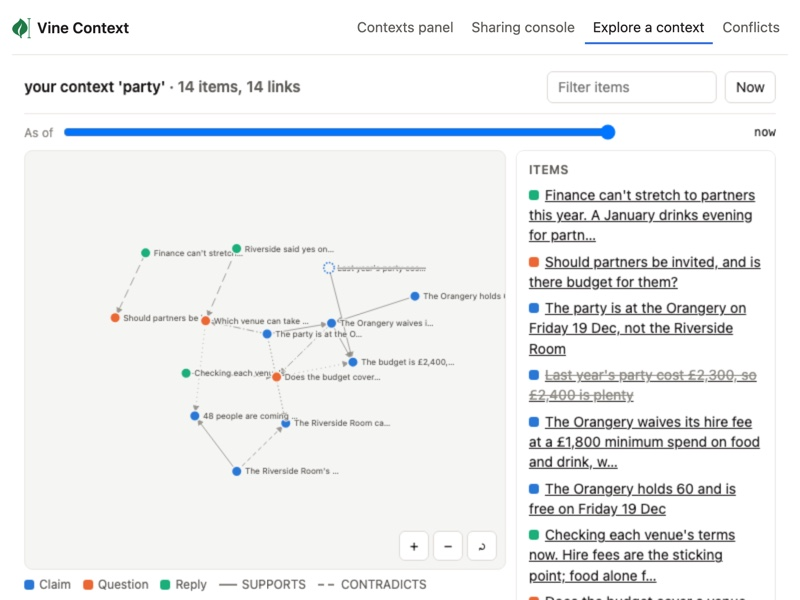
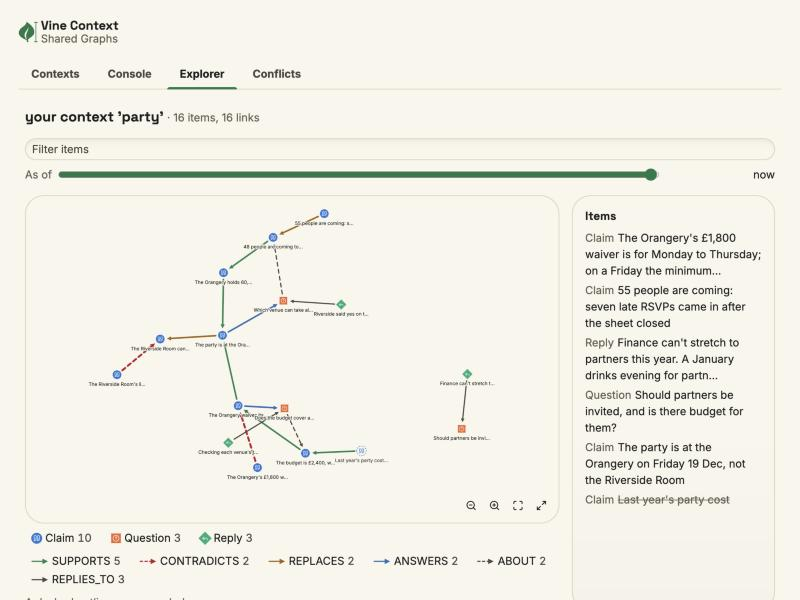
Views: the demo no longer looks broken where it isn't
- Relationship types are drawn apart in the explorer: SUPPORTS green,
  CONTRADICTS red and dashed, REPLACES amber, ANSWERS blue.
- The 'no signalling relay' warning shows only when no member is
  linked, so not during a healthy in-process demo.
- Lines people read (the panel, the demo's terminal) leave out item
  ids, which stay in what agents are told.
- The browser page reads each view's page once and says it is loading.
- The demo's members report the platform they really run on.
- The explorer screenshot is of the new example.

diff --git a/plugin/hooks/register.tsx b/plugin/hooks/register.tsx
@@ -114,6 +114,8 @@ const TABS: { tab: Tab; icon: string; label: string }[] = [
   { tab: 'settings', icon: '⚙', label: 'Settings' },
 ]
 
+/** A line as a person reads it: without the item ids that are there for agents. */
+const plain = (s: string) => s.replace(/\s*\b[cqr]_[0-9a-f]{8}(?:-[0-9a-f]{4}){3}-[0-9a-f]{12}\b/g, '').replace(/\breplied to:/, 'replied:')
 const short = (s: string, n: number) => (s.length > n ? `${s.slice(0, n - 1)}…` : s)
 /** A path cut from the front, so its last folders (the telling part) stay. */
 export const tail = (s: string, n: number) => (s.length > n ? `…${s.slice(s.length - n + 1)}` : s)
@@ -374,12 +376,12 @@ async function refresh($: Engine) {
     const others = a.recent.filter(c => !c.mine && !c.held)
     if (seen) {
       const fresh = others.filter(c => !seen!.has(c.id) && ['claim', 'question', 'reply', 'add_member', 'withdraw', 'remove_member'].includes(c.kind))
-      for (const c of fresh.slice(0, 3)) $.ui.toast(`${c.by} ${short(c.summary, 90)}`)
+      for (const c of fresh.slice(0, 3)) $.ui.toast(`${c.by} ${short(plain(c.summary), 90)}`)
     }
     seen = new Set(a.recent.map(c => c.id))
     // What others' changes meant for you (the sync digest): its first line as a toast.
     const d = a.digest?.at(-1)
-    if (d && seenDigest !== undefined && d.at !== seenDigest && d.lines[0]) $.ui.toast(`${a.context}: ${short(d.lines[0], 110)}`)
+    if (d && seenDigest !== undefined && d.at !== seenDigest && d.lines[0]) $.ui.toast(`${a.context}: ${short(plain(d.lines[0]), 110)}`)
     seenDigest = d?.at ?? ''
     const top = others.find(c => c.kind !== 'create')
     await update($, latest, (): Latest | null => (top ? { by: top.by, summary: top.summary, at: top.at } : null))
@@ -596,7 +598,7 @@ export const register: Register = on => {
     const d = a.digest?.at(-1)
     const main = a.contexts.find(c => c.writes_here)?.name ?? a.context
     // The latest news: what others' changes meant for you if that's newest, else the latest change from someone else.
-    const news = d && (!l || d.at >= l.at) ? `${short(d.lines[0] ?? '', 70)} (${ago(d.at, now)})` : l ? `${l.by} ${short(l.summary, 60)} (${ago(l.at, now)})` : ''
+    const news = d && (!l || d.at >= l.at) ? `${short(plain(d.lines[0] ?? ''), 70)} (${ago(d.at, now)})` : l ? `${l.by} ${short(plain(l.summary), 60)} (${ago(l.at, now)})` : ''
     const more = a.contexts.filter(c => c.name !== main).map(c => ` +${c.name}`).join('')
     return (
       <Box flexDirection="row" gap={1} alignItems="center" width="100%">
@@ -737,7 +739,7 @@ export const register: Register = on => {
                 <Text weight="semibold" bold>
                   {last.mine ? 'you' : last.by}
                 </Text>{' '}
-                {short(last.summary, 80)}
+                {short(plain(last.summary), 80)}
               </Text>
             </Box>
           )}
@@ -1825,8 +1827,9 @@ export const register: Register = on => {
       const feed = a.recent
       // The "you claimed:" part of an activity line is who-did-what metadata: drawn dim so the claim itself reads first.
       const lead = (c: Change) => {
-        const i = /^(claim|question|reply|describe)$/.test(c.kind) ? c.summary.indexOf(': ') : -1
-        return i < 0 ? { head: '', body: c.summary } : { head: c.summary.slice(0, i + 2), body: c.summary.slice(i + 2) }
+        const summary = plain(c.summary)
+        const i = /^(claim|question|reply|describe)$/.test(c.kind) ? summary.indexOf(': ') : -1
+        return i < 0 ? { head: '', body: summary } : { head: summary.slice(0, i + 2), body: summary.slice(i + 2) }
       }
       const ICON: Record<string, string> = { claim: '📌', question: '❓', reply: '↳', link: '🔗', withdraw: '✕', add_member: '👋', remove_member: '🚪', set_role: '🔑', rename: '✎', describe: '✎', create: '✦' }
       const need = (key: string, tone: string, text: unknown, button: unknown) => card(`need-${key}`, split(`need-row-${key}`, <Text wrap="wrap">{text}</Text>, button, 'center'), tone)
@@ -1876,7 +1879,7 @@ export const register: Register = on => {
                 {heldMine.map((c: Change) =>
                   split(
                     `held-${c.id}`,
-                    <Text wrap="wrap">{short(c.summary, 140)}</Text>,
+                    <Text wrap="wrap">{short(plain(c.summary), 140)}</Text>,
                     <Button key={`undo-change-${c.id}`} label="Undo" variant="primary" onPress={() => void act($, 'withdraw', { id: c.id, undo_only: true, ...ctx }, 'Taken back. It never left this machine.')} />,
                     'center',
                   ),
@@ -1894,7 +1897,7 @@ export const register: Register = on => {
                 <Box flexDirection="column" gap="xs">
                   {folded('digest', digest.lines, 3, 'changes', 'change', (line, i) => (
                     <Text key={`digest-${i}`} wrap="wrap">
-                      {line}
+                      {plain(line)}
                     </Text>
                   ))}
                   {meta(ago(digest.at, now))}

diff --git a/apps/src/views/Contexts.tsx b/apps/src/views/Contexts.tsx
@@ -63,6 +63,7 @@ import {
   prop,
   relations,
   sendLine,
+  plain,
   short,
   tail,
   threads,
@@ -98,8 +99,9 @@ const RECENT = 5;
 const HEADER_PEOPLE = 6;
 // The "you claimed:" part of an activity line is who-did-what metadata: drawn muted so the claim itself reads first.
 const lead = (c: Change) => {
-  const i = /^(claim|question|reply|describe)$/.test(c.kind) ? c.summary.indexOf(": ") : -1;
-  return i < 0 ? { head: "", body: c.summary } : { head: c.summary.slice(0, i + 2), body: c.summary.slice(i + 2) };
+  const summary = plain(c.summary);
+  const i = /^(claim|question|reply|describe)$/.test(c.kind) ? summary.indexOf(": ") : -1;
+  return i < 0 ? { head: "", body: summary } : { head: summary.slice(0, i + 2), body: summary.slice(i + 2) };
 };
 /** A way out of a step (Cancel, Done, Back) leads with a back chevron, so it reads as going back. */
 const backLabel = (label: string) => label.replace(/^‹\s*/, "");
@@ -1263,7 +1265,7 @@ function ContextsPanel({ b }: { b: Bridge }) {
   // The latest news from someone else: what their changes meant for you if that's newest, else their latest change.
   const digest = a.digest?.at(-1);
   const latest = a.recent.find((c) => !c.mine && !c.held && c.kind !== "create");
-  const news = digest?.lines[0] && (!latest || digest.at >= latest.at) ? `${short(digest.lines[0], 90)} (${ago(digest.at, now)})` : latest ? `${latest.by} ${short(latest.summary, 80)} (${ago(latest.at, now)})` : "";
+  const news = digest?.lines[0] && (!latest || digest.at >= latest.at) ? `${short(plain(digest.lines[0]), 90)} (${ago(digest.at, now)})` : latest ? `${latest.by} ${short(plain(latest.summary), 80)} (${ago(latest.at, now)})` : "";
 
   const header = (
     <VStack gap="sm">
@@ -1377,7 +1379,8 @@ function ContextsPanel({ b }: { b: Bridge }) {
     );
     const needs = [
       !a.sharing && need("offline", "warn", "You’re offline: what you write stays on this machine, and you don’t see what others add, until you’re back.", goOnline),
-      a.sharing && a.relays_up === 0 && need("relays", "warn", "No signalling relay is reachable, so the other members can’t find this machine right now.", null),
+      // Members already linked need no relay: it only matters for finding each other.
+      a.sharing && a.relays_up === 0 && a.online.length === 0 && a.members > 1 && need("relays", "warn", "No signalling relay is reachable, so the other members can’t find this machine right now.", null),
       rel.conflicts.length > 0 &&
         need(
           "conflicts",
@@ -1434,7 +1437,7 @@ function ContextsPanel({ b }: { b: Bridge }) {
               <Text tone="warning">Just written, still only on this machine:</Text>
               {heldMine.map((c) => (
                 <Split key={c.id}>
-                  <Text>{short(c.summary, 140)}</Text>
+                  <Text>{short(plain(c.summary), 140)}</Text>
                   <Button variant="primary" onClick={() => void act("withdraw", { id: c.id, undo_only: true, ...ctx }, "Taken back. It never left this machine.")}>
                     Undo
                   </Button>
@@ -1456,7 +1459,7 @@ function ContextsPanel({ b }: { b: Bridge }) {
             <SectionTitle>What changed for you</SectionTitle>
             <Box tone="accent">
               <VStack gap="sm">
-                <Folded list={digest.lines.map((line, i) => ({ line, i }))} first={3} what="changes" one="change" render={({ line, i }) => <Text key={i}>{line}</Text>} />
+                <Folded list={digest.lines.map((line, i) => ({ line, i }))} first={3} what="changes" one="change" render={({ line, i }) => <Text key={i}>{plain(line)}</Text>} />
                 <Meta>{ago(digest.at, now)}</Meta>
               </VStack>
             </Box>

diff --git a/apps/src/shell.tsx b/apps/src/shell.tsx
@@ -8,6 +8,8 @@ import { Client } from "@modelcontextprotocol/sdk/client/index.js";
 import { StreamableHTTPClientTransport } from "@modelcontextprotocol/sdk/client/streamableHttp.js";
 import { Alert } from "@squonk/ui/alert";
 import { Container } from "@squonk/ui/container";
+import { HStack } from "@squonk/ui/hstack";
+import { Spinner } from "@squonk/ui/spinner";
 import { Tabs } from "@squonk/ui/tabs";
 import { Textarea } from "@squonk/ui/textarea";
 import { VStack } from "@squonk/ui/vstack";
@@ -55,17 +57,29 @@ async function appTools(client: Client): Promise<AppTool[]> {
     });
 }
 
+// A view's page is over a megabyte and never changes while this page is open: read it once.
+const pages = new Map<string, Promise<string>>();
+function page(client: Client, uri: string): Promise<string> {
+  let p = pages.get(uri);
+  if (!p) {
+    p = client.readResource({ uri }).then((res) => (res.contents[0] as { text?: string }).text ?? "");
+    p.catch(() => pages.delete(uri));
+    pages.set(uri, p);
+  }
+  return p;
+}
+
 function View({ client, tool: { name, args, title, uri }, onMessage }: { client: Client; tool: AppTool; onMessage: (text: string) => void }) {
   const frame = useRef<HTMLIFrameElement>(null);
   const [height, setHeight] = useState(480);
   const [error, setError] = useState<string>();
+  const [ready, setReady] = useState(false);
 
   useEffect(() => {
     let bridge: AppBridge | undefined;
     let cancelled = false;
     (async () => {
-      const res = await client.readResource({ uri: uri });
-      const html = (res.contents[0] as { text?: string }).text ?? "";
+      const html = await page(client, uri);
       const iframe = frame.current!;
       const theme = matchMedia("(prefers-color-scheme: dark)").matches ? "dark" : "light";
       bridge = new AppBridge(
@@ -87,7 +101,9 @@ function View({ client, tool: { name, args, title, uri }, onMessage }: { client:
       bridge.oninitialized = async () => {
         await bridge!.sendToolInput({ arguments: args });
         const result = await client.callTool({ name: name, arguments: args });
-        if (!cancelled) await bridge!.sendToolResult(result as never);
+        if (cancelled) return;
+        await bridge!.sendToolResult(result as never);
+        setReady(true);
       };
       // Listen before the view loads, so its first message (ui/initialize) can't be missed.
       await bridge.connect(new PostMessageTransport(iframe.contentWindow!, iframe.contentWindow!));
@@ -103,6 +119,12 @@ function View({ client, tool: { name, args, title, uri }, onMessage }: { client:
   return (
     <>
       {error && <Alert tone="error">{error}</Alert>}
+      {!ready && !error && (
+        <HStack gap="xs" align="center" role="status">
+          <Spinner />
+          <span>Loading…</span>
+        </HStack>
+      )}
       <iframe ref={frame} title={title} sandbox="allow-scripts" style={{ width: "100%", height, border: 0, display: "block" }} />
     </>
   );
@@ -151,6 +173,12 @@ function Shell() {
           </Alert>
         )}
         {error && <Alert tone="error">{error}</Alert>}
+        {tools.length === 0 && !error && (
+          <HStack gap="xs" align="center" role="status">
+            <Spinner />
+            <span>Loading…</span>
+          </HStack>
+        )}
         {tools.length > 0 && (
           <Tabs
             listLabel="Views"

diff --git a/apps/src/views/Explorer.tsx b/apps/src/views/Explorer.tsx
@@ -93,6 +93,18 @@ function endedNote(n: SNode): string {
   return typeof reason === "string" && reason ? `ended: ${reason}` : "ended";
 }
 
+// How the Claims and Questions relationships are drawn, so agreement, conflict
+// and replacement can be told apart at a glance. Any other model's
+// relationships take a colour each from the series palette.
+const LINK_STYLE: Record<string, { tone?: string; variant?: "solid" | "dashed"; thickness?: number }> = {
+  SUPPORTS: { tone: "success", thickness: 2 },
+  CONTRADICTS: { tone: "error", variant: "dashed", thickness: 2.5 },
+  REPLACES: { tone: "warning", thickness: 2 },
+  ANSWERS: { tone: "info", thickness: 2 },
+  ABOUT: { tone: "neutral", variant: "dashed" },
+  REPLIES_TO: { tone: "neutral" },
+};
+
 const struck = { textDecoration: "line-through" } as const;
 
 export function Explorer({ b }: { b: Bridge }) {
@@ -130,8 +142,8 @@ export function Explorer({ b }: { b: Bridge }) {
   }, [snap?.schema]);
   const linkKinds = useMemo<NetworkGraphLinkKinds>(() => {
     const k: NetworkGraphLinkKinds = {};
-    snap?.schema.relationships.forEach((r) => {
-      k[r.type] = { label: r.type };
+    snap?.schema.relationships.forEach((r, i) => {
+      k[r.type] = LINK_STYLE[r.type] ? { label: r.type, ...LINK_STYLE[r.type] } : { label: r.type, slot: (((i % 8) + 1) as 1 | 2 | 3 | 4 | 5 | 6 | 7 | 8) };
     });
     return k;
   }, [snap?.schema]);

diff --git a/src/demo/live.ts b/src/demo/live.ts
@@ -28,8 +28,8 @@ export const NAMES: Name[] = ["alice", "bob", "carol"];
 /** What each member's install says about itself, as the console shows it. */
 const ABOUT: Record<Name, { agent: string; platform: string }> = {
   alice: { agent: "claude-code", platform: `${process.platform} ${process.arch}` },
-  bob: { agent: "codex", platform: "linux x64" },
-  carol: { agent: "claude-code", platform: "win32 x64" },
+  bob: { agent: "codex", platform: `${process.platform} ${process.arch}` },
+  carol: { agent: "claude-code", platform: `${process.platform} ${process.arch}` },
 };
 
 export interface Member {
@@ -125,7 +125,7 @@ export async function startDemo(o: DemoOptions = {}): Promise<Demo> {
   for (const n of NAMES) {
     members[n].local.on("event", (e: { event: string; data: any }) => {
       if (e.event === "changed" && e.data?.from) say(`  ↳ reached ${n} (from ${e.data.from})`);
-      if (e.event === "digest" && n === "alice") for (const line of e.data?.lines ?? []) say(`  ↳ alice's agent is told: ${line}`);
+      if (e.event === "digest" && n === "alice") for (const line of e.data?.lines ?? []) say(`  ↳ alice's agent is told: ${String(line).replace(/\s*\b[cqr]_[0-9a-f]{8}(?:-[0-9a-f]{4}){3}-[0-9a-f]{12}\b/g, "")}`);
     });
   }
 

diff --git a/apps/src/contexts/logic.ts b/apps/src/contexts/logic.ts
@@ -109,6 +109,8 @@ export type Filters = {
 
 const NAME_RE = /^[a-z0-9][a-z0-9-]{0,62}$/;
 
+/** A line as a person reads it: without the item ids that are there for agents. */
+export const plain = (s: string) => s.replace(/\s*\b[cqr]_[0-9a-f]{8}(?:-[0-9a-f]{4}){3}-[0-9a-f]{12}\b/g, "").replace(/\breplied to:/, "replied:");
 export const short = (s: string, n: number) => (s.length > n ? `${s.slice(0, n - 1)}…` : s);
 /** A path cut from the front, so its last folders (the telling part) stay. */
 export const tail = (s: string, n: number) => (s.length > n ? `…${s.slice(s.length - n + 1)}` : s);
